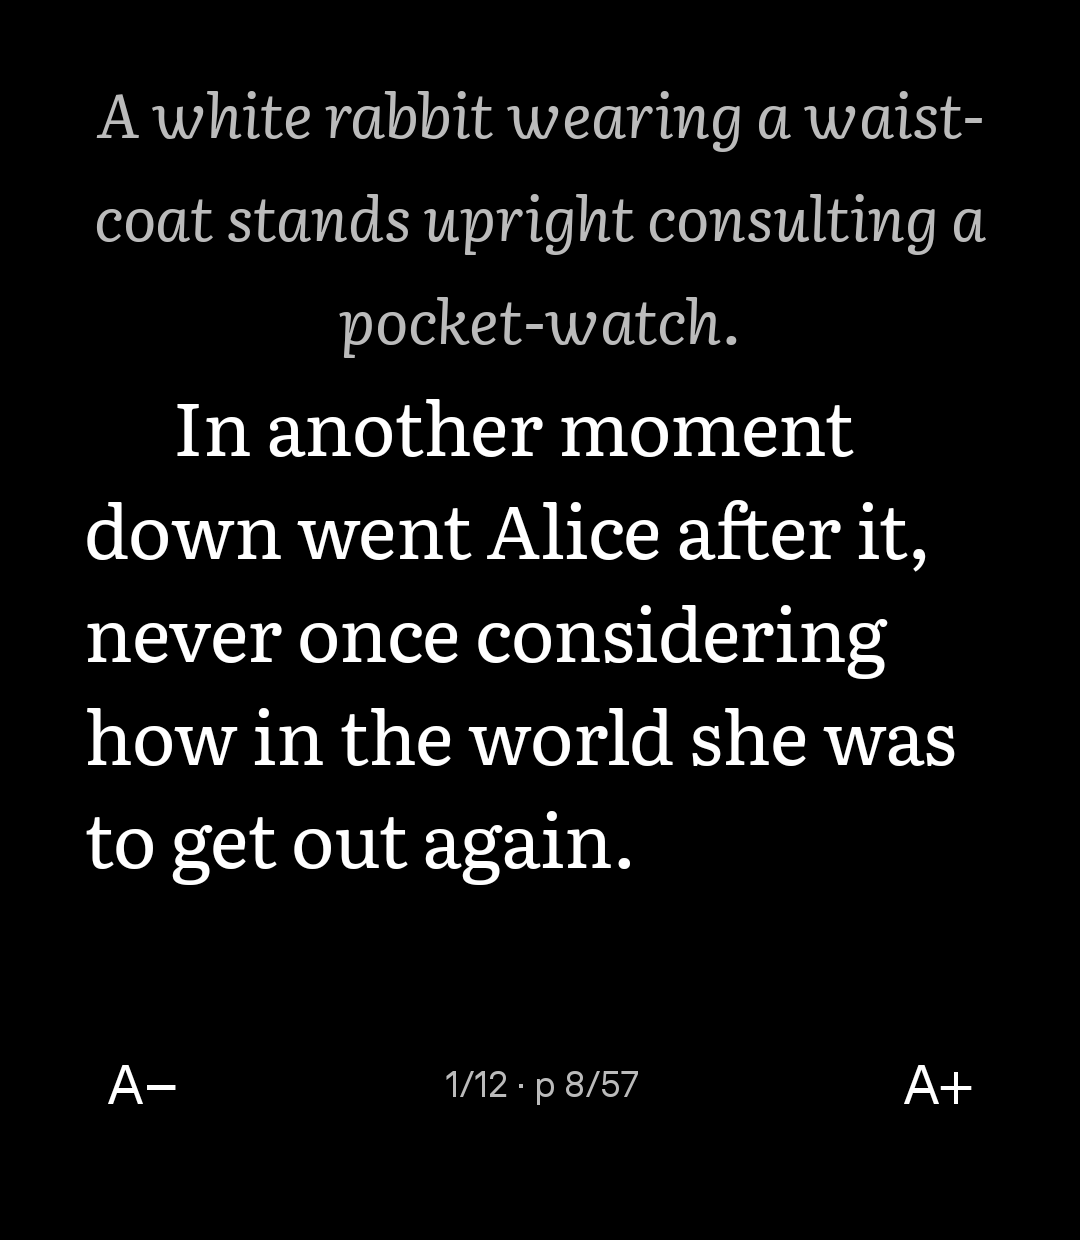
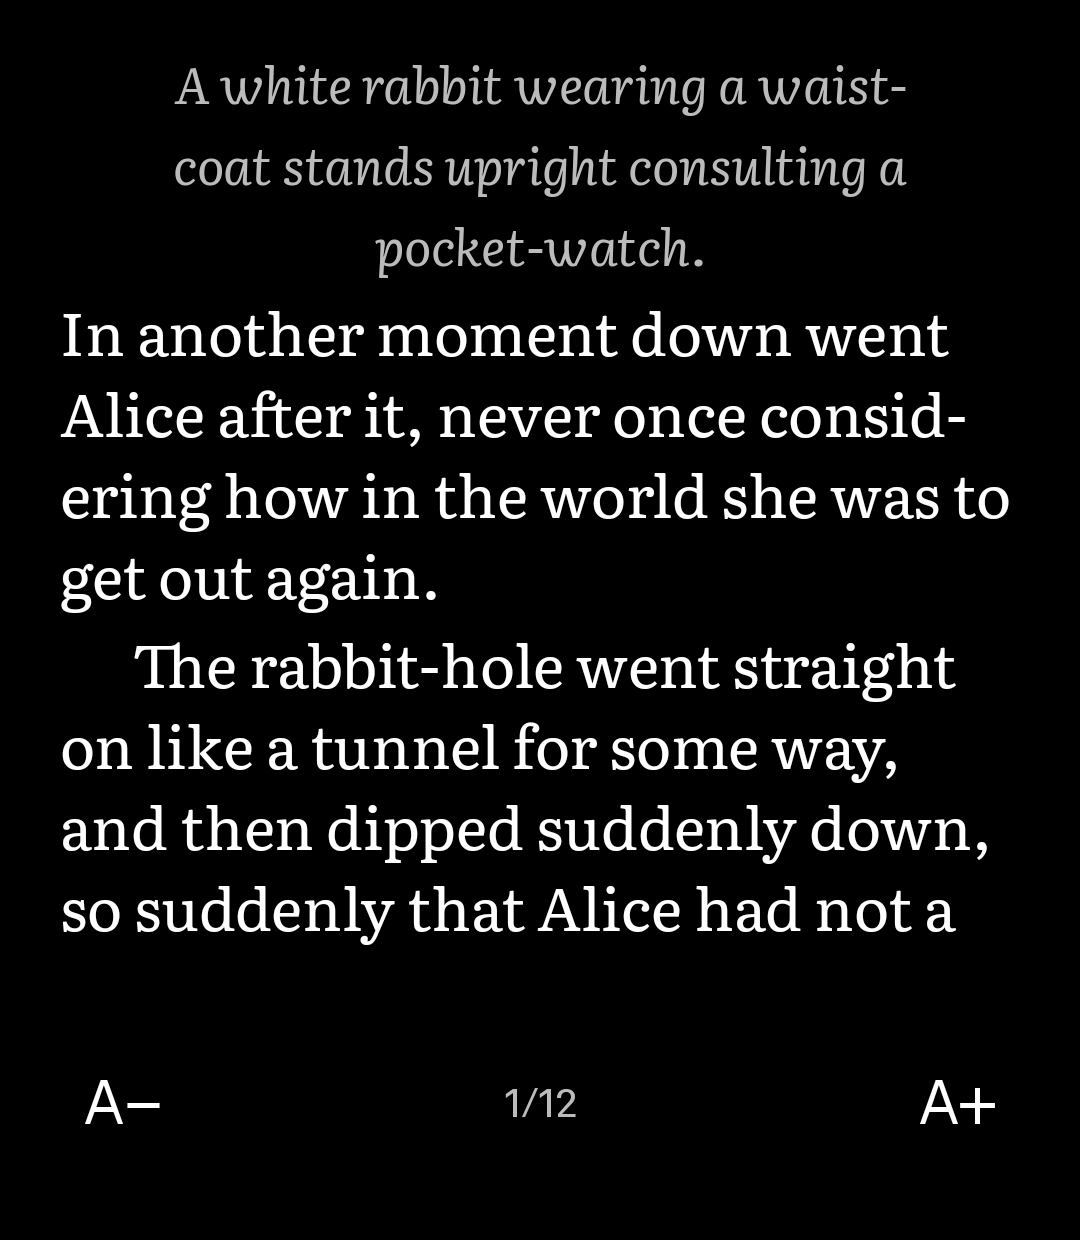
10 K windows; ADR 0007 records the measured bar; screenshots at the new scale
- WINDOW_CHARS 10_000: layout scales ~10 ms per 1,000 characters on the LP3, and 10 K keeps the
  seam-adjacent open (two windows before the first Page) ~100 ms under 300 ms.
- ADR 0007: what the bar covers, the window-size sweep (20/12/10/8 K), one-window and two-window
  numbers, and the corrected whole-item cost.
- Screenshots: chapter opening, italics and caption at the 480 dpi scale with the p + p indent, and a
  Page spanning a window seam.

diff --git a/tool/src/main/kotlin/com/yarosz/reader/Pagination.kt b/tool/src/main/kotlin/com/yarosz/reader/Pagination.kt
@@ -65,9 +65,9 @@ fun endsAtBreak(text: CharSequence, nextLineStart: Int): Boolean =
  * end (the chapter's first line always is), or, if no such start leaves the page at least
  * [MIN_PAGE_FILL] full, the earliest start that fits. So every page end is legal unless the guard fired,
  * in both directions; what remains asymmetric is that a backward pass may tile a stretch differently,
- * but as legally, from a forward one. Backward, only the chapter's first page may be short. A single line taller
- * than the page gets a page to itself. Heights add across a window seam, and a page spanning windows
- * gets a band per window.
+ * but as legally, from a forward one. Backward, only the chapter's first page may be short. A single
+ * line taller than the page gets a page to itself. Heights add across a window seam, and a page spanning
+ * windows gets a band per window.
  *
  * A page is emitted only once no further window can change it: the next line on its side doesn't fit,
  * or the chapter ends there. So when the anchor lies within about a page of its measured run's end and

diff --git a/tool/src/main/kotlin/com/yarosz/reader/Windows.kt b/tool/src/main/kotlin/com/yarosz/reader/Windows.kt
@@ -6,8 +6,12 @@ package com.yarosz.reader
  */
 data class Window(val firstBlock: Int, val lastBlock: Int, val start: Int, val end: Int)
 
-/** Characters per window (ADR 0007): ~60–80 ms to lay out on the LP3, inside the 300 ms first-Page bar. */
-const val WINDOW_CHARS = 20_000
+/**
+ * Characters per window (ADR 0007). Layout costs roughly 10 ms per 1,000 characters on the LP3, and 10 K
+ * keeps the slowest open, a Place within a Page of a window's end (two windows laid out), about 100 ms
+ * under the 300 ms first-Page bar.
+ */
+const val WINDOW_CHARS = 10_000
 
 /**
  * Cuts [chapter] into windows of at most [maxChars] characters that tile its text. Blocks are packed

diff --git a/docs/adr/0007-windowed-layout-packed-from-the-place.md b/docs/adr/0007-windowed-layout-packed-from-the-place.md
@@ -1,7 +1,7 @@
 # Windowed layout, packed from the Place
 
 A Spine item is laid out in windows, not all at once. Windows are cut at block (paragraph) boundaries,
-preferring table-of-contents Chapter starts, and a Chapter longer than ~20 K characters is split. The
+preferring table-of-contents Chapter starts, and a Chapter longer than ~10 K characters is split. The
 window holding the Place is laid out synchronously; neighbouring windows are laid out in the background.
 Pages are packed outward from the Place: the line holding the Place starts a Page, packing runs forward
 into later windows and backward into earlier ones as they finish measuring, and a Page may span two
@@ -9,10 +9,31 @@ windows (drawn as up to two clipped bands). Line breaking restarts at every para
 seams are exact and spanning costs no reflow.
 
 Measured on LP3 hardware (SM4450, Pride and Prejudice): laying out a whole 112–165 K-character Spine item
-takes 475–650 ms warm and up to 1,356 ms cold (~3–4 ms per 1,000 characters), and dropping hyphenation
+takes 475–650 ms warm and up to 1,356 ms cold (~3–4 ms per 1,000 characters in that prototype; re-measured with the shipped styles, measuring the
+164,870-character item alone takes 1,762 ms, ~11 ms per 1,000, in line with the per-window cost below), and dropping hyphenation
 saves only 15–25%. That misses the bar ADR 0004 set. This supersedes that bar, restated here: **the first
 Page at any Place, and any font change, in at most 300 ms P90 on the SM4450, warm; page turns do no
-layout work.** A 20 K window is ~60–80 ms plus pagination.
+layout work.** The bar covers building the styled text, measuring the window(s) and packing the Page,
+which the app logs as `firstPageMs`. It doesn't cover the EPUB parse, composition or the first frame.
+
+The worst case is a Place within a Page of a window's end: both windows are laid out before the Page
+shows. That's roughly 2% of Places, but the bar holds at any Place, so this case sets the window size.
+Measured on the LP3 (TLP301) in Pride and Prejudice's largest Spine item (164,870 characters), with the
+Place 150 characters before the first window's end, P90 of 20 runs unless noted:
+
+| Window size (actual) | Open | Font change |
+|---|---|---|
+| Whole Spine item (before windows) | 1,940 ms | 870 ms |
+| 20 K (12.5–16.7 K), n = 10 | 331 ms | 338 ms |
+| 12 K (~11.8 K) | 280 ms (max 284) | 243 ms (max 294) |
+| **10 K (9.1–9.8 K)** | **194 ms (max 197)** | **172 ms (max 207)** |
+| 8 K (5.5–7.1 K), n = 10 | 136 ms | 142 ms |
+
+Measuring one window takes ~139 ms at ~12.5 K, ~117 ms at ~11.8 K, ~89 ms at ~9.1 K and ~63 ms at ~5.5 K
+(P50), so cost scales with size, roughly 10 ms per 1,000 characters. Windows are 10 K: the largest
+measured size whose two-window open keeps a real margin under the bar (12 K's worst font change reached
+294 ms). With the Place inside one window, open and font change are 111 / 122 ms P90 (max 120 / 156) (195 / 204 ms at
+20 K).
 
 Rules that keep it stable:
 
@@ -20,9 +41,9 @@ Rules that keep it stable:
   packing only creates Pages not yet visited in this pass.
 - The first Page of a Spine item may be short when it's reached by backward packing (at most once per
   opening, at a heading).
-- The measurer is warmed up (a short string) when the Shelf appears, so the first open pays only for its
-  window.
-- Hyphenation stays on; its cost fits inside the window budget.
+- The measurer is warmed up (a short hyphenated string in every face the book uses) while the book
+  opens. It takes ~16–57 ms on the LP3, so the first open pays only for its window(s).
+- Hyphenation stays on; the times above include it.
 - There's no in-session "Page N of M" (M isn't known until every window is done); Progress (minutes,
   percent) is layout-independent.
 
@@ -32,3 +53,5 @@ Rules that keep it stable:
 - Windows whose Pages never span a seam: simpler, but leaves a short Page mid-Chapter every ~25–60 Pages,
   which reads as a typesetting fault.
 - Dropping hyphenation to make whole-item layout fit: still 2× over the bar.
+- 20 K or 12 K windows: fewer seams, but the two-window open misses the bar at 20 K and clears it by too
+  little at 12 K.

diff --git a/LEDGER.md b/LEDGER.md
@@ -55,7 +55,7 @@ Ordered. Each item ends on its _done-when_.
   live on retail; at the first Light-signed build, the sentinel check in `RELEASING.md`. **Tool id:
   `com.yarosz.reader`**, permanent from first publish.
 - **P · Paginator v2 (ADR 0007, `DESIGN.md`).** Pure core first: block-boundary windows (prefer
-  Chapter starts, split > ~20 K chars); pack outward from the Place; a Page = up to two bands; page-end
+  Chapter starts, split > ~10 K chars); pack outward from the Place; a Page = up to two bands; page-end
   rules (whitespace/paragraph end only, never after a heading, 70% guard, cascade test); page-boundary
   cache per layout pass. Then the Compose side: sync current window, background neighbours (verify
   `TextMeasurer` off the main thread under the plugin), two-band drawing, measurer warm-up, the 480-dpi
